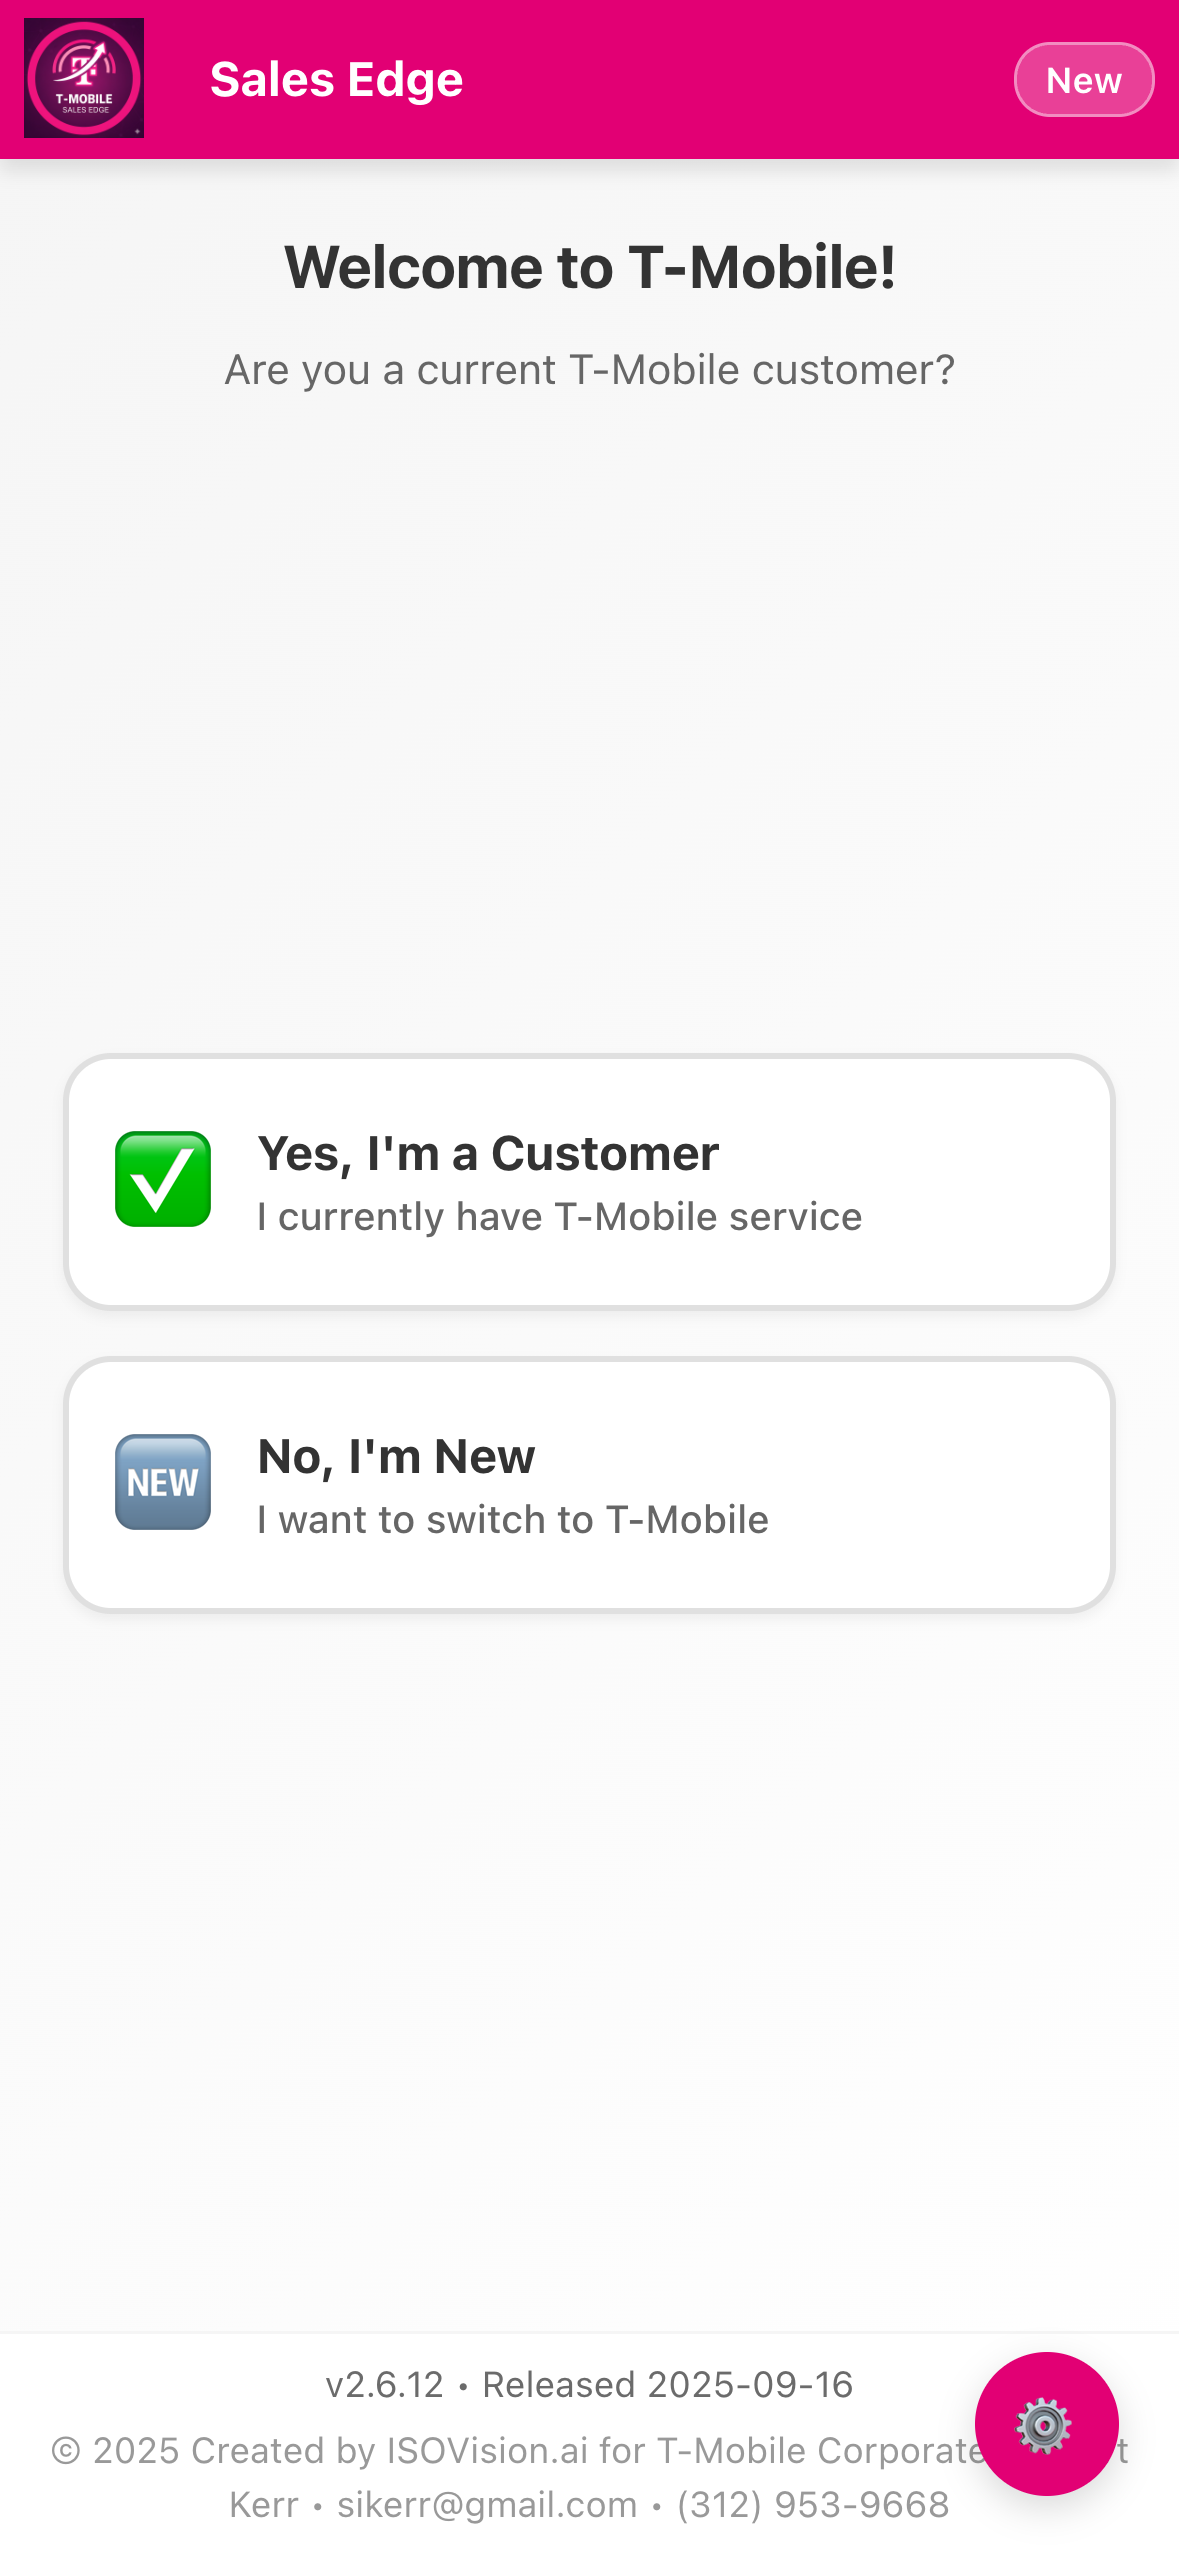
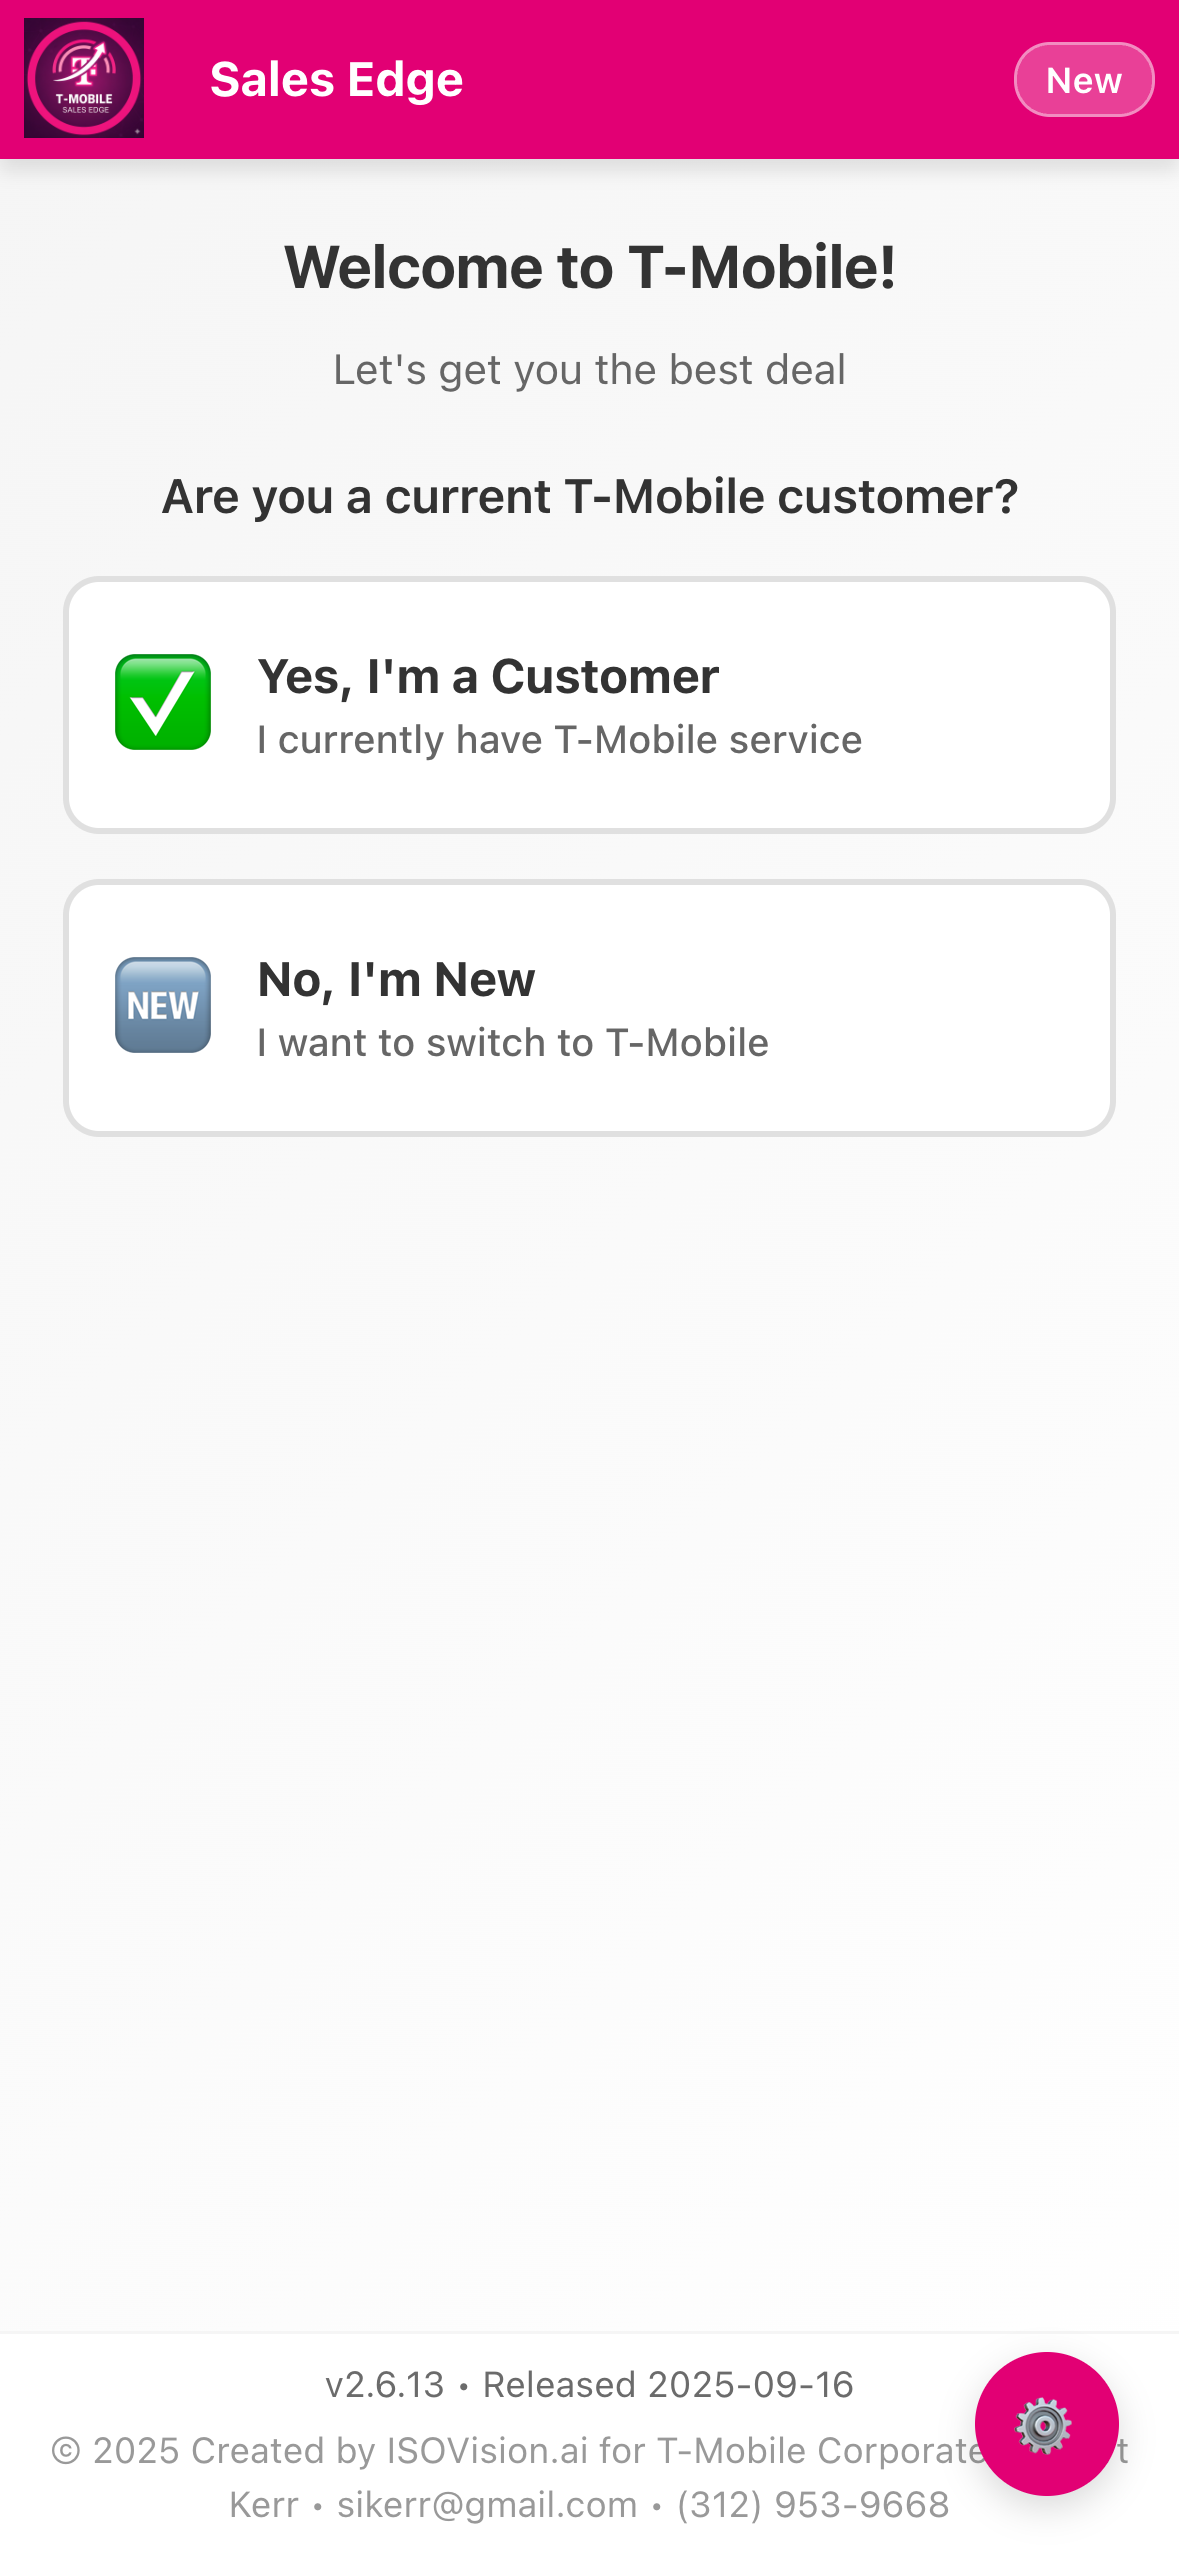
Fix customer type screen layout - side by side buttons, compact design, proper continue button placement

diff --git a/src/components/CustomerTypeSelector.css b/src/components/CustomerTypeSelector.css
@@ -2,44 +2,61 @@
   display: flex;
   flex-direction: column;
   min-height: calc(100vh - 120px);
-  padding: 20px;
+  padding: 15px;
   max-width: 600px;
   margin: 0 auto;
 }
 
 .customer-type-header {
   text-align: center;
-  margin-bottom: 30px;
+  margin-bottom: 20px;
 }
 
 .welcome-title {
-  font-size: 24px;
+  font-size: 22px;
   font-weight: bold;
   color: #333;
-  margin-bottom: 8px;
+  margin-bottom: 6px;
 }
 
 .welcome-subtitle {
-  font-size: 16px;
+  font-size: 15px;
   color: #666;
 }
 
+.section-group {
+  margin-bottom: 20px;
+}
+
+.section-label {
+  color: #333;
+  font-size: 16px;
+  font-weight: 600;
+  margin-bottom: 12px;
+  text-align: center;
+}
+
+/* Customer Type Buttons - Side by Side on Mobile */
 .customer-type-buttons {
-  display: flex;
-  flex-direction: column;
-  gap: 15px;
+  display: grid;
+  grid-template-columns: 1fr 1fr;
+  gap: 10px;
   margin-bottom: 20px;
 }
 
 .customer-type-button {
   display: flex;
+  flex-direction: column;
   align-items: center;
-  padding: 20px;
+  justify-content: center;
+  padding: 15px 10px;
   background: white;
   border: 2px solid #e0e0e0;
   border-radius: 12px;
   cursor: pointer;
   transition: all 0.2s ease;
+  min-height: 100px;
+  text-align: center;
 }
 
 .customer-type-button.selected {
@@ -52,88 +69,30 @@
   box-shadow: 0 4px 12px rgba(226, 0, 116, 0.1);
 }
 
-.customer-type-button:active {
-  transform: translateY(0);
-}
-
 .button-icon {
-  font-size: 40px;
-  margin-right: 20px;
-  flex-shrink: 0;
+  font-size: 28px;
+  margin-bottom: 8px;
 }
 
 .button-text {
-  flex: 1;
-  text-align: left;
-}
-
-.button-title {
-  font-size: 18px;
-  font-weight: bold;
-  color: #333;
-  margin-bottom: 4px;
-}
-
-.button-subtitle {
-  font-size: 14px;
-  color: #666;
-}
-
-/* Mobile optimizations */
-@media (max-width: 480px) {
-  .customer-type-container {
-    padding: 15px;
-    height: calc(100vh - 100px);
-  }
-  
-  .customer-type-header {
-    margin-bottom: 20px;
-  }
-  
-  .welcome-title {
-    font-size: 20px;
-  }
-  
-  .welcome-subtitle {
-    font-size: 14px;
-  }
-  
-  .customer-type-buttons {
-    gap: 15px;
-    padding-bottom: 60px;
-  }
-  
-  .customer-type-button {
-    padding: 20px 15px;
-  }
-  
-  .button-icon {
-    font-size: 32px;
-    margin-right: 15px;
-  }
-  
-  .button-title {
-    font-size: 16px;
-  }
-  
-  .button-subtitle {
-    font-size: 13px;
-  }
-}
-
-/* New sections for discount categories */
-.section-group {
-  margin-bottom: 25px;
-}
-
-.section-label {
-  color: #333;
-  font-size: 16px;
-  font-weight: 600;
-  margin-bottom: 15px;
   text-align: center;
 }
 
+.button-title {
+  font-size: 15px;
+  font-weight: 600;
+  color: #333;
+  margin-bottom: 3px;
+  line-height: 1.2;
+}
+
+.button-subtitle {
+  font-size: 12px;
+  color: #666;
+  line-height: 1.2;
+}
+
+/* Discount Grid - Compact */
 .discount-section {
   animation: slideUp 0.3s ease;
 }
@@ -141,7 +100,7 @@
 .discount-grid {
   display: grid;
   grid-template-columns: repeat(2, 1fr);
-  gap: 12px;
+  gap: 10px;
   margin-bottom: 20px;
 }
 
@@ -149,13 +108,15 @@
   display: flex;
   flex-direction: column;
   align-items: center;
-  padding: 15px 10px;
+  justify-content: center;
+  padding: 12px 8px;
   background: white;
   border: 2px solid #e0e0e0;
   border-radius: 12px;
   cursor: pointer;
   transition: all 0.2s ease;
-  min-height: 90px;
+  min-height: 85px;
+  text-align: center;
 }
 
 .discount-button.selected {
@@ -169,12 +130,12 @@
 }
 
 .discount-icon {
-  font-size: 24px;
-  margin-bottom: 6px;
+  font-size: 22px;
+  margin-bottom: 4px;
 }
 
 .discount-label {
-  font-size: 13px;
+  font-size: 12px;
   font-weight: 600;
   color: #333;
   text-align: center;
@@ -182,30 +143,36 @@
 }
 
 .discount-amount {
-  font-size: 11px;
+  font-size: 10px;
   color: #E20074;
   font-weight: 500;
-  margin-top: 4px;
+  margin-top: 2px;
 }
 
+/* Continue Button - Fixed at Bottom */
 .continue-button-bottom {
-  width: 100%;
-  padding: 16px;
+  position: fixed;
+  bottom: 85px; /* Above footer */
+  left: 50%;
+  transform: translateX(-50%);
+  width: calc(100% - 30px);
+  max-width: 570px;
+  padding: 14px;
   background: #E20074;
   color: white;
   border: none;
   border-radius: 12px;
-  font-size: 18px;
+  font-size: 17px;
   font-weight: 600;
   cursor: pointer;
   transition: all 0.2s ease;
-  margin-top: auto;
-  margin-bottom: 20px;
+  z-index: 50;
+  box-shadow: 0 -2px 10px rgba(0, 0, 0, 0.1);
 }
 
 .continue-button-bottom:hover {
   background: #C10060;
-  transform: translateY(-2px);
+  transform: translateX(-50%) translateY(-2px);
   box-shadow: 0 4px 12px rgba(226, 0, 116, 0.3);
 }
 
@@ -217,5 +184,42 @@
   to {
     opacity: 1;
     transform: translateY(0);
+  }
+}
+
+/* Larger screens - keep side by side but bigger */
+@media (min-width: 480px) {
+  .customer-type-buttons {
+    gap: 15px;
+  }
+  
+  .customer-type-button {
+    padding: 20px;
+    min-height: 120px;
+  }
+  
+  .button-icon {
+    font-size: 32px;
+  }
+  
+  .button-title {
+    font-size: 16px;
+  }
+  
+  .button-subtitle {
+    font-size: 13px;
+  }
+  
+  .discount-button {
+    min-height: 95px;
+    padding: 15px 10px;
+  }
+  
+  .discount-icon {
+    font-size: 24px;
+  }
+  
+  .discount-label {
+    font-size: 13px;
   }
 }
